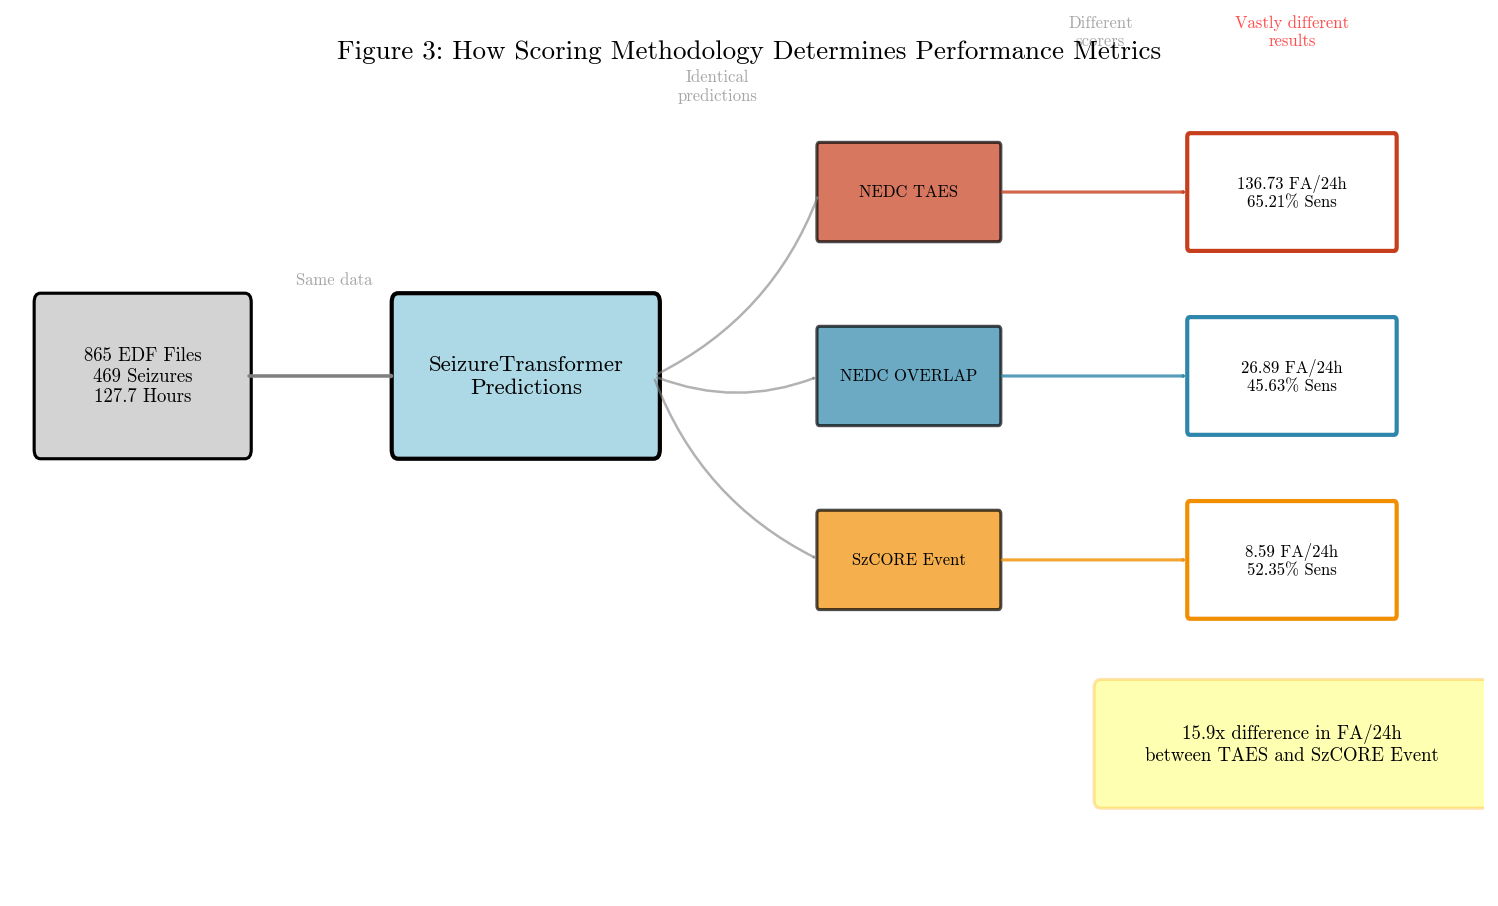
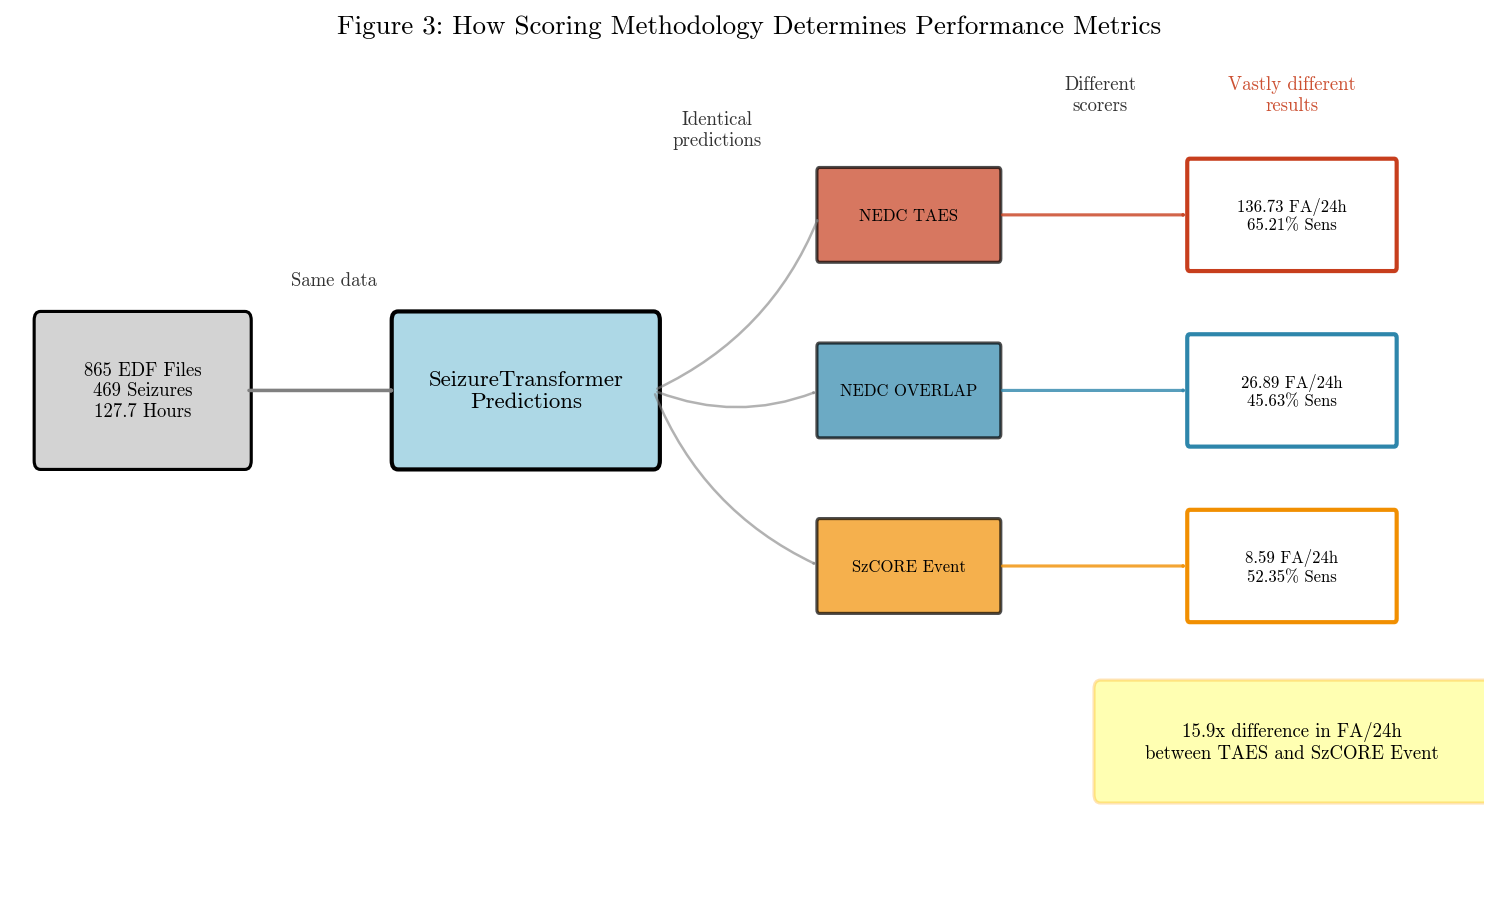
feat: Update local settings and add new figures for arXiv submission
- Expanded permissions in `settings.local.json` to include additional Bash commands for enhanced functionality.
- Added new optimized figures for performance gap, operating curves, and scoring impact to the arXiv submission directory.
- Updated existing figures to reflect the latest results and removed outdated backup files to streamline the repository.
- Enhanced figure scripts for better readability and presentation of results in the submission.

diff --git a/literature/arxiv_submission/figures/scripts/fig2_optimized.py b/literature/arxiv_submission/figures/scripts/fig2_optimized.py
@@ -95,10 +95,10 @@ def generate_fig2_optimized():
     # Mark paper's default operating point
     default_point = nedc_overlap[nedc_overlap['threshold'] == 0.80].iloc[0]
     ax.plot(default_point['fa_per_24h'], default_point['sensitivity'],
-            'o', color='black', markersize=10, zorder=15)
-    ax.annotate('Paper default\n(θ=0.8, k=5, d=2.0)',
+            '*', color='black', markersize=14, zorder=15)  # Star marker
+    ax.annotate('Paper default\n(t=0.8, k=5, d=2.0)',  # Changed theta symbol to 't'
                 xy=(default_point['fa_per_24h'], default_point['sensitivity']),
-                xytext=(50, 30),
+                xytext=(45, 65),  # Move to the right to avoid blocking
                 fontsize=8,
                 ha='center',
                 bbox=dict(boxstyle='round,pad=0.3',
@@ -106,7 +106,8 @@ def generate_fig2_optimized():
                          alpha=0.95,
                          edgecolor='black',
                          linewidth=0.5),
-                arrowprops=dict(arrowstyle='-',
+                arrowprops=dict(arrowstyle='->',
+                               connectionstyle='arc3,rad=0.3',
                                color='black',
                                alpha=0.7,
                                lw=1),
@@ -123,14 +124,14 @@ def generate_fig2_optimized():
                 ha='left',
                 bbox=dict(boxstyle='round,pad=0.3',
                          facecolor='white',
-                         alpha=0.95,
+                         alpha=1.0,  # Full opacity to hide line behind
                          edgecolor='purple',
                          linewidth=0.5),
                 arrowprops=dict(arrowstyle='-',
                                color='purple',
                                alpha=0.7,
                                lw=1),
-                zorder=14)
+                zorder=16)  # Higher z-order to be on top of everything
 
     # Axes configuration
     ax.set_xlabel('False Alarms per 24 Hours', fontsize=FONT_SIZE['label'])

diff --git a/literature/arxiv_submission/figures/scripts/fig1_optimized.py b/literature/arxiv_submission/figures/scripts/fig1_optimized.py
@@ -44,8 +44,14 @@ def generate_fig1_optimized():
                color=COLORS['threshold'],
                linestyle='--',
                linewidth=LINE_WIDTH['reference'],
-               label=f"Clinical threshold ({CLINICAL_THRESHOLDS['fa_per_24h']} FA/24h)",
                zorder=0)
+
+    # Add label in upper left corner where it won't block anything
+    ax1.text(0.02, 0.95, '---- Clinical threshold (10 FA/24h)',
+            transform=ax1.transAxes,
+            fontsize=FONT_SIZE['legend'],
+            color='black',  # Changed to black
+            va='top')
 
     # Enhanced multiplier annotations with background boxes
     for i, (fa, mult) in enumerate(zip(fa_rates, multipliers)):
@@ -70,9 +76,7 @@ def generate_fig1_optimized():
               ylabel='False Alarms per 24 Hours (log scale)',
               grid=True)
 
-    # Legend with better positioning
-    ax1.legend(loc='upper left', fontsize=FONT_SIZE['legend'],
-              framealpha=0.95, edgecolor='none')
+    # No legend needed since we added text label directly
 
     # Add panel label
     add_panel_label(ax1, 'A')
@@ -80,7 +84,7 @@ def generate_fig1_optimized():
     # ============ Panel B: Sensitivity at 10 FA/24h ============
     # Get data in same order as Panel A (minus Dianalund)
     panel_b_data = data[data['sensitivity_at_10fa'].notna()]
-    scorers = ['SzCORE\n(Event)', 'NEDC\nOVERLAP', 'NEDC\nTAES']
+    scorers = ['SzCORE\nEvent', 'NEDC\nOVERLAP', 'NEDC\nTAES']  # Removed parentheses
     sensitivities = panel_b_data['sensitivity_at_10fa'].tolist()
     sens_std = panel_b_data['sens_std'].fillna(0).tolist()  # Handle any NaN
     colors_b = [COLORS['szcore'], COLORS['nedc_overlap'], COLORS['nedc_taes']]

diff --git a/literature/arxiv_submission/figures/scripts/fig3_optimized.py b/literature/arxiv_submission/figures/scripts/fig3_optimized.py
@@ -127,7 +127,7 @@ def generate_fig3_optimized():
 
     # ============ Styling ============
     ax.set_xlim(0, 11.5)
-    ax.set_ylim(-0.8, 3.5)
+    ax.set_ylim(-0.8, 3.8)
     ax.axis('off')
 
     # Title
@@ -136,15 +136,15 @@ def generate_fig3_optimized():
                 fontweight='bold',
                 pad=20)
 
-    # Add subtle annotations
-    ax.text(2.5, 2.5, 'Same data', ha='center', fontsize=8,
-           style='italic', color='gray', alpha=0.7)
-    ax.text(5.5, 3.5, 'Identical\npredictions', ha='center', fontsize=8,
-           style='italic', color='gray', alpha=0.7)
-    ax.text(8.5, 3.8, 'Different\nscorers', ha='center', fontsize=8,
-           style='italic', color='gray', alpha=0.7)
-    ax.text(10, 3.8, 'Vastly different\nresults', ha='center', fontsize=8,
-           style='italic', color='red', alpha=0.7, fontweight='bold')
+    # Add subtle annotations (changed to black for better readability)
+    ax.text(2.5, 2.6, 'Same data', ha='center', fontsize=9,
+           style='italic', color='black', alpha=0.8)
+    ax.text(5.5, 3.4, 'Identical\npredictions', ha='center', fontsize=9,
+           style='italic', color='black', alpha=0.8)
+    ax.text(8.5, 3.6, 'Different\nscorers', ha='center', fontsize=9,
+           style='italic', color='black', alpha=0.8)
+    ax.text(10, 3.6, 'Vastly different\nresults', ha='center', fontsize=9,
+           style='italic', color='#C73E1D', alpha=0.9, fontweight='bold')
 
     plt.tight_layout()
 
